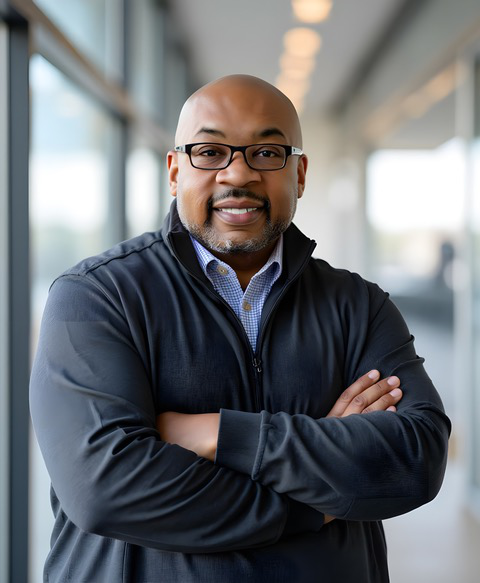
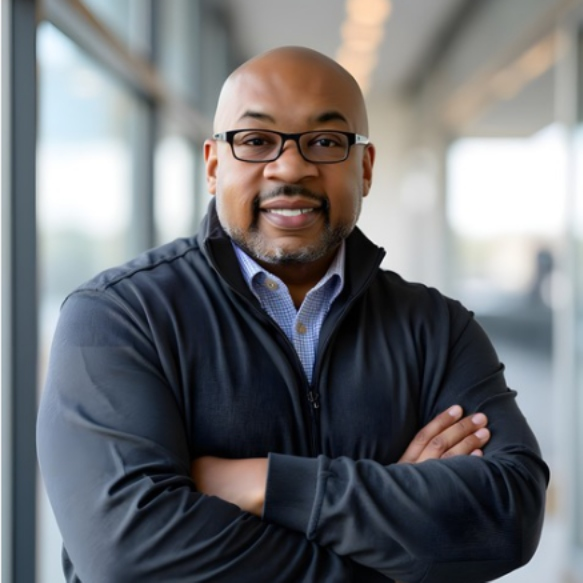
foto persegi

diff --git a/signature-Chris-McIntyre/index.html b/signature-Chris-McIntyre/index.html
@@ -1,97 +1,125 @@
-<!-- EMAIL SIGNATURE (FULL WIDTH) -->
-<table cellpadding="0" cellspacing="0" border="0"
-    style="width:70%; max-width:70%; font-family:'Montserrat', Arial, Helvetica, sans-serif; color:#1f2937;">
+<!-- EMAIL SIGNATURE (RESPONSIVE, APPLE MAIL FRIENDLY, CROP NO STRETCH) -->
+<table role="presentation" cellpadding="0" cellspacing="0" border="0" style="width:100%; border-collapse:collapse;">
     <tr>
-        <!-- LEFT: PHOTO + ICONS BELOW PHOTO -->
-        <td valign="top" style="width:120px; padding:0 16px 0 0; white-space:nowrap;">
-            <!-- Headshot (ganti URL) -->
-            <!-- Headshot (tanpa mengubah rasio asli / tidak gepeng) -->
-            <div style="width:200px; height:200px; border-radius:999px; overflow:hidden; display:block;">
-                <img src="signature/signature_headshot_88.png" alt="Headshot"
-                    style="display:block; width:100%; height:100%; object-fit:cover; border:0; border-radius:999px;" />
-            </div>
+        <td style="padding:0;">
 
-
-
-            <!-- ICONS (di bawah foto) -->
-            <div style="margin-top:10px;">
-                <a href="https://Strategic-relo.com"
-                    style="text-decoration:none; display:inline-block; margin-right:6px;">
-                    <img src="signature/signature_icon_website_22.png" width="22" height="22" alt="Website"
-                        style="display:block; border:0;">
-                </a>
-
-                <a href="mailto:Chris@Strategic-Relo.com"
-                    style="text-decoration:none; display:inline-block; margin-right:6px;">
-                    <img src="signature/signature_icon_email_22.png" width="22" height="22" alt="Email"
-                        style="display:block; border:0;">
-                </a>
-
-                <a href="https://www.linkedin.com/in/chris-w-mcintyre/"
-                    style="text-decoration:none; display:inline-block;">
-                    <img src="signature/signature_icon_linkedin_22.png" width="22" height="22" alt="LinkedIn"
-                        style="display:block; border:0;">
-                </a>
-            </div>
-        </td>
-
-        <!-- RIGHT: CONTENT -->
-        <td valign="top" style="padding:0; width:100%;">
-            <!-- TOP ROW: NAME + LOGO -->
-            <table cellpadding="0" cellspacing="0" border="0" style="width:100%;">
+            <!-- Container (max-width) -->
+            <table role="presentation" cellpadding="0" cellspacing="0" border="0"
+                style="width:100%; max-width:600px; border-collapse:collapse;">
                 <tr>
-                    <td valign="top" style="padding:0 12px 6px 0;">
-                        <!-- NAME: warna disamakan dengan divider (#8aa2b7) -->
-                        <div
-                            style="font-size:18px; font-weight:700; line-height:22px; color:#8aa2b7; font-family:'Montserrat', Arial, Helvetica, sans-serif;">
-                            Chris McIntyre
-                        </div>
-                        <div
-                            style="font-size:13px; font-weight:600; line-height:18px; color:#b28a56; font-family:'Montserrat', Arial, Helvetica, sans-serif;">
-                            Chief Supply Chain Strategist &amp; Principal
-                        </div>
-                    </td>
+                    <!-- LEFT: PHOTO + ICONS -->
+                    <td valign="top" style="width:140px; padding:0 16px 0 0; white-space:nowrap;">
 
-                    <td valign="top" align="right" style="padding:0; line-height:0; font-size:0;">
-                        <img src="signature/signature_logo_h34.png" height="124" alt="Strategic Relocation Services"
-                            style="display:block; border:0;" />
-                    </td>
+                        <!-- Headshot: crop tapi tidak gepeng -->
+                        <table role="presentation" cellpadding="0" cellspacing="0" border="0"
+                            style="border-collapse:collapse;">
+                            <tr>
+                                <td width="120" height="120" style="
+                    width:120px;
+                    height:120px;
+                    border-radius:999px;
+                    -webkit-border-radius:999px;
+                    overflow:hidden;
+                    line-height:0;
+                    font-size:0;
+                  ">
+                                    <img src="https://duwianjar.github.io/signature-Chris-McIntyre/signature/signature_headshot_88.png"
+                                        alt="Headshot" style="
+                      display:block;
+                      border:0;
+                      outline:none;
+                      text-decoration:none;
+                      width:auto;
+                        height:120px;
+                      border-radius:999px;
+                      -webkit-border-radius:999px;
+                    " />
+                                </td>
+                            </tr>
+                        </table>
 
+                        <!-- ICONS -->
+                        <div style="margin-top:10px;">
+                            <a href="https://Strategic-relo.com"
+                                style="text-decoration:none; display:inline-block; margin-right:6px;">
+                                <img src="https://duwianjar.github.io/signature-Chris-McIntyre/signature/signature_icon_website_22.png"
+                                    width="22" height="22" alt="Website"
+                                    style="display:block; border:0; outline:none; text-decoration:none;">
+                            </a>
 
+                            <a href="mailto:Chris@Strategic-Relo.com"
+                                style="text-decoration:none; display:inline-block; margin-right:6px;">
+                                <img src="https://duwianjar.github.io/signature-Chris-McIntyre/signature/signature_icon_email_22.png"
+                                    width="22" height="22" alt="Email"
+                                    style="display:block; border:0; outline:none; text-decoration:none;">
+                            </a>
 
-
-                </tr>
-            </table>
-
-            <!-- DIVIDER LINE -->
-            <div style="height:2px; background:#8aa2b7; opacity:0.9; margin:6px 0 10px 0;"></div>
-
-            <!-- CONTACT: 2 COLUMNS -->
-            <table cellpadding="0" cellspacing="0" border="0" style="width:100%;">
-                <tr>
-                    <!-- LEFT COL: phone + email -->
-                    <td valign="top" style="width:55%; padding:0 12px 0 0;">
-                        <div
-                            style="font-size:13px; line-height:18px; color:#1f2937; margin-bottom:6px; font-family:'Montserrat', Arial, Helvetica, sans-serif;">
-                            <span style="font-weight:700;">816 808 1633</span>
-                        </div>
-
-                        <div
-                            style="font-size:13px; line-height:18px; font-family:'Montserrat', Arial, Helvetica, sans-serif;">
-                            <a href="mailto:Chris@Strategic-Relo.com" style="color:#1f2937; text-decoration:none;">
-                                Chris@Strategic-Relo.com
+                            <a href="https://www.linkedin.com/in/chris-w-mcintyre/"
+                                style="text-decoration:none; display:inline-block;">
+                                <img src="https://duwianjar.github.io/signature-Chris-McIntyre/signature/signature_icon_linkedin_22.png"
+                                    width="22" height="22" alt="LinkedIn"
+                                    style="display:block; border:0; outline:none; text-decoration:none;">
                             </a>
                         </div>
                     </td>
 
-                    <!-- RIGHT COL: website -->
-                    <td valign="top" align="right" style="width:45%; padding:0;">
-                        <div
-                            style="font-size:13px; line-height:18px; font-family:'Montserrat', Arial, Helvetica, sans-serif;">
-                            <a href="https://Strategic-relo.com" style="color:#b28a56; text-decoration:none;">
-                                Strategic-relo.com
-                            </a>
-                        </div>
+                    <!-- RIGHT -->
+                    <td valign="top" style="padding:0; width:100%;">
+
+                        <table role="presentation" cellpadding="0" cellspacing="0" border="0"
+                            style="width:100%; border-collapse:collapse;">
+                            <tr>
+                                <td valign="top" style="padding:0 12px 6px 0;">
+                                    <div
+                                        style="font-size:18px; font-weight:700; line-height:22px; color:#8aa2b7; font-family:'Montserrat', Arial, Helvetica, sans-serif;">
+                                        Chris McIntyre
+                                    </div>
+                                    <div
+                                        style="font-size:13px; font-weight:600; line-height:18px; color:#b28a56; font-family:'Montserrat', Arial, Helvetica, sans-serif;">
+                                        Chief Supply Chain Strategist &amp; Principal
+                                    </div>
+                                </td>
+
+                                <td valign="top" align="right" style="padding:0; line-height:0; font-size:0;">
+                                    <img src="https://duwianjar.github.io/signature-Chris-McIntyre/signature/signature_logo_h34.png"
+                                        height="124" alt="Strategic Relocation Services"
+                                        style="display:block; border:0; outline:none; text-decoration:none;" />
+                                </td>
+                            </tr>
+                        </table>
+
+                        <div style="height:2px; background:#8aa2b7; opacity:0.9; margin:6px 0 10px 0;"></div>
+
+                        <table role="presentation" cellpadding="0" cellspacing="0" border="0"
+                            style="width:100%; border-collapse:collapse;">
+                            <tr>
+                                <td valign="top" style="width:55%; padding:0 12px 0 0;">
+                                    <div
+                                        style="font-size:13px; line-height:18px; color:#1f2937; margin-bottom:6px; font-family:'Montserrat', Arial, Helvetica, sans-serif;">
+                                        <span style="font-weight:700;">816 808 1633</span>
+                                    </div>
+
+                                    <div
+                                        style="font-size:13px; line-height:18px; font-family:'Montserrat', Arial, Helvetica, sans-serif;">
+                                        <a href="mailto:Chris@Strategic-Relo.com"
+                                            style="color:#1f2937; text-decoration:none;">
+                                            Chris@Strategic-Relo.com
+                                        </a>
+                                    </div>
+                                </td>
+
+                                <td valign="top" align="right" style="width:45%; padding:0;">
+                                    <div
+                                        style="font-size:13px; line-height:18px; font-family:'Montserrat', Arial, Helvetica, sans-serif;">
+                                        <a href="https://Strategic-relo.com"
+                                            style="color:#b28a56; text-decoration:none;">
+                                            Strategic-relo.com
+                                        </a>
+                                    </div>
+                                </td>
+                            </tr>
+                        </table>
+
                     </td>
                 </tr>
             </table>
